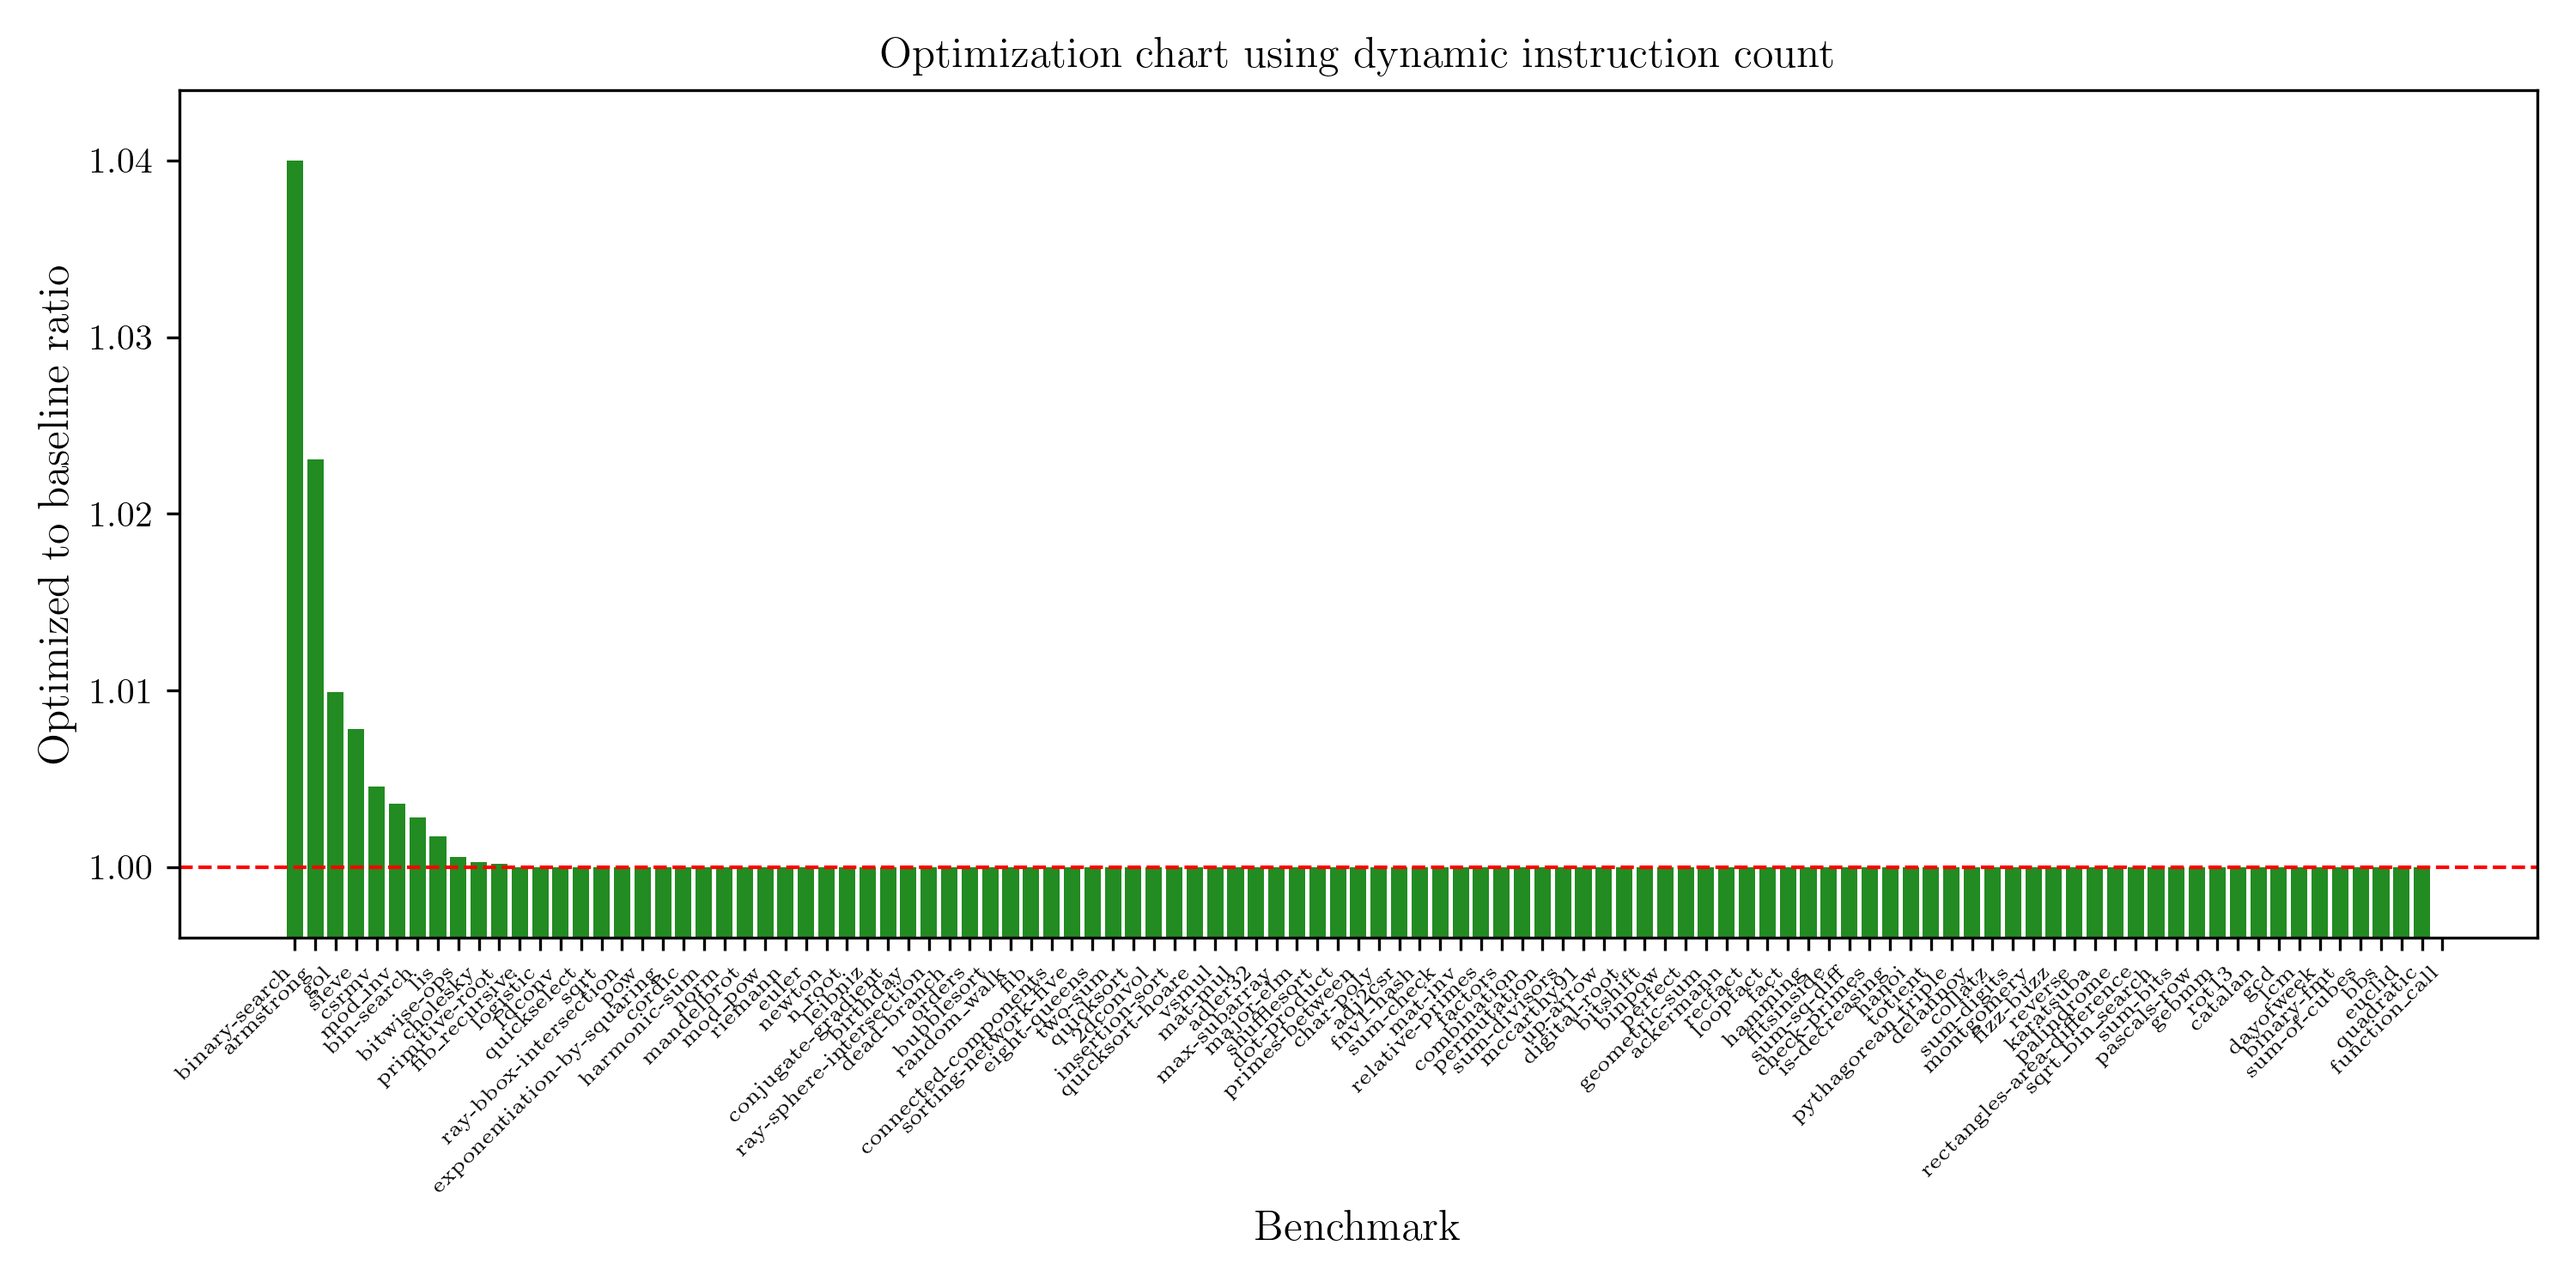
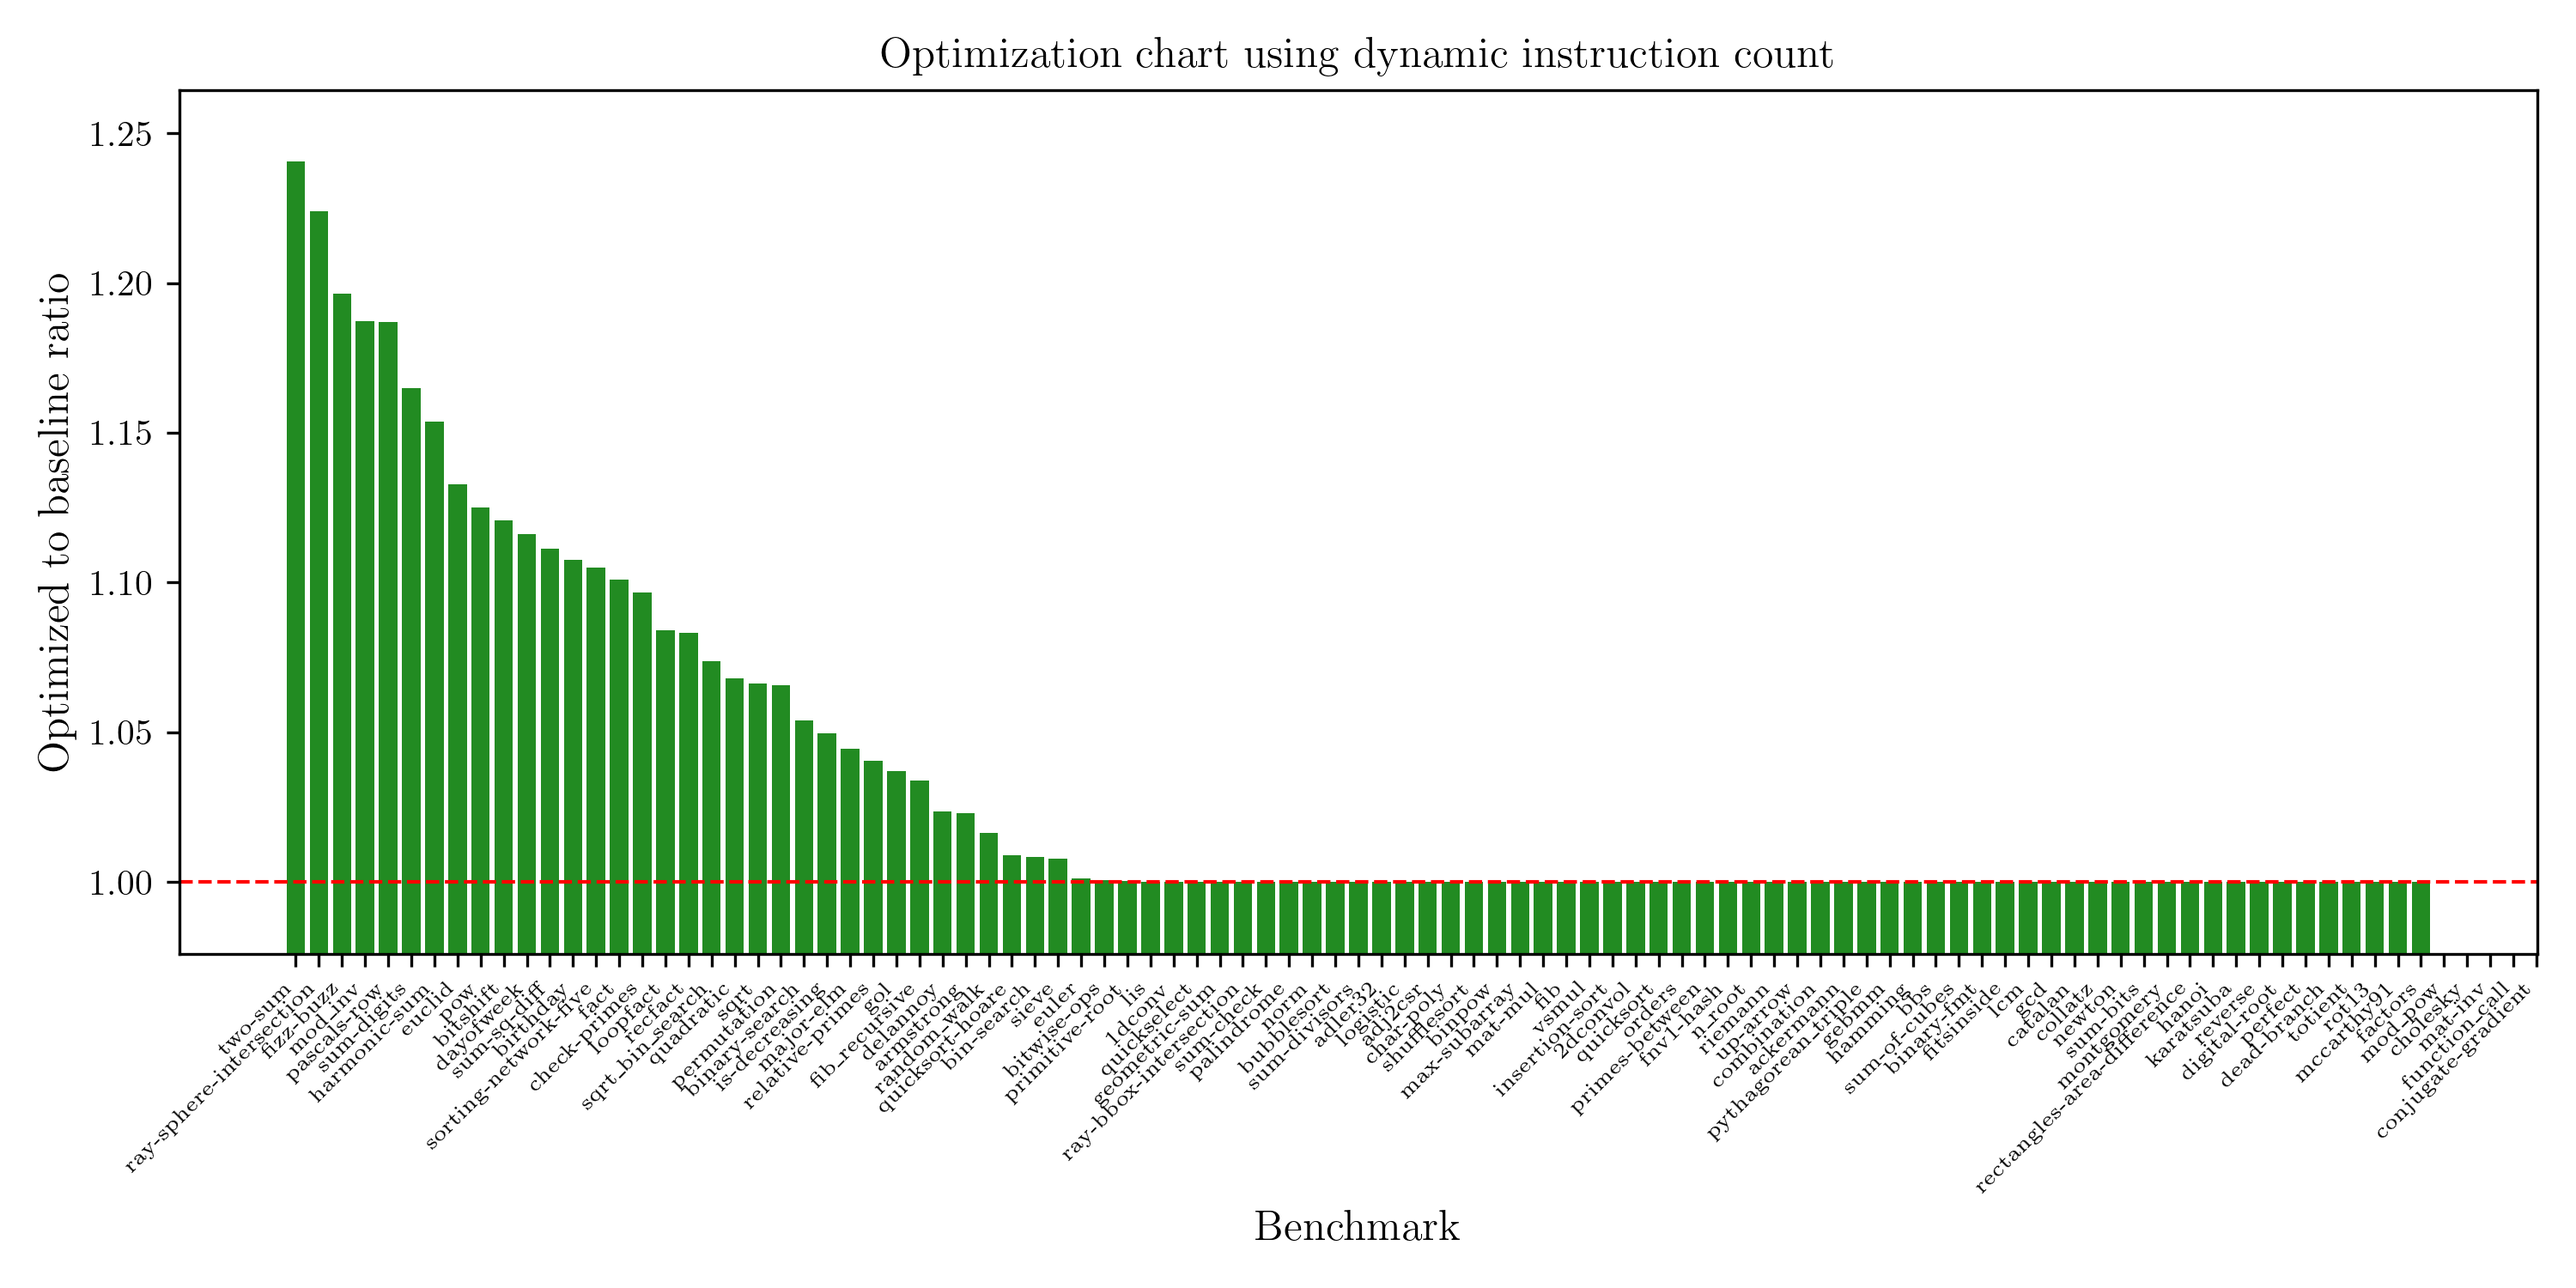
Fixed DCE bug

diff --git a/rust_stuff/src/dce.rs b/rust_stuff/src/dce.rs
@@ -21,7 +21,7 @@ fn function_dce(instrs: &Vec<Code>, blocks: &Vec<(usize, usize)>) -> Vec<Code> {
             };
             let mut status = InstrStatus::Unused;
             let mut lrw = 0;
-            for j in i + 1..new_instrs.len() {
+            for j in 0..new_instrs.len() {
                 match new_instrs.get(j) {
                     Some(Code::Instruction(Instruction::Value { args, .. }))
                     | Some(Code::Instruction(Instruction::Effect { args, .. }))
@@ -30,8 +30,12 @@ fn function_dce(instrs: &Vec<Code>, blocks: &Vec<(usize, usize)>) -> Vec<Code> {
                         status = InstrStatus::Used;
                         break;
                     }
+                    _ => {}
+                }
+            }
+            for j in i + 1..new_instrs.len() {
+                match new_instrs.get(j) {
                     Some(Code::Instruction(Instruction::Constant { dest, .. }))
-                    | Some(Code::Instruction(Instruction::Value { dest, .. }))
                         if dest == destination =>
                     {
                         status = InstrStatus::Rewritten;
